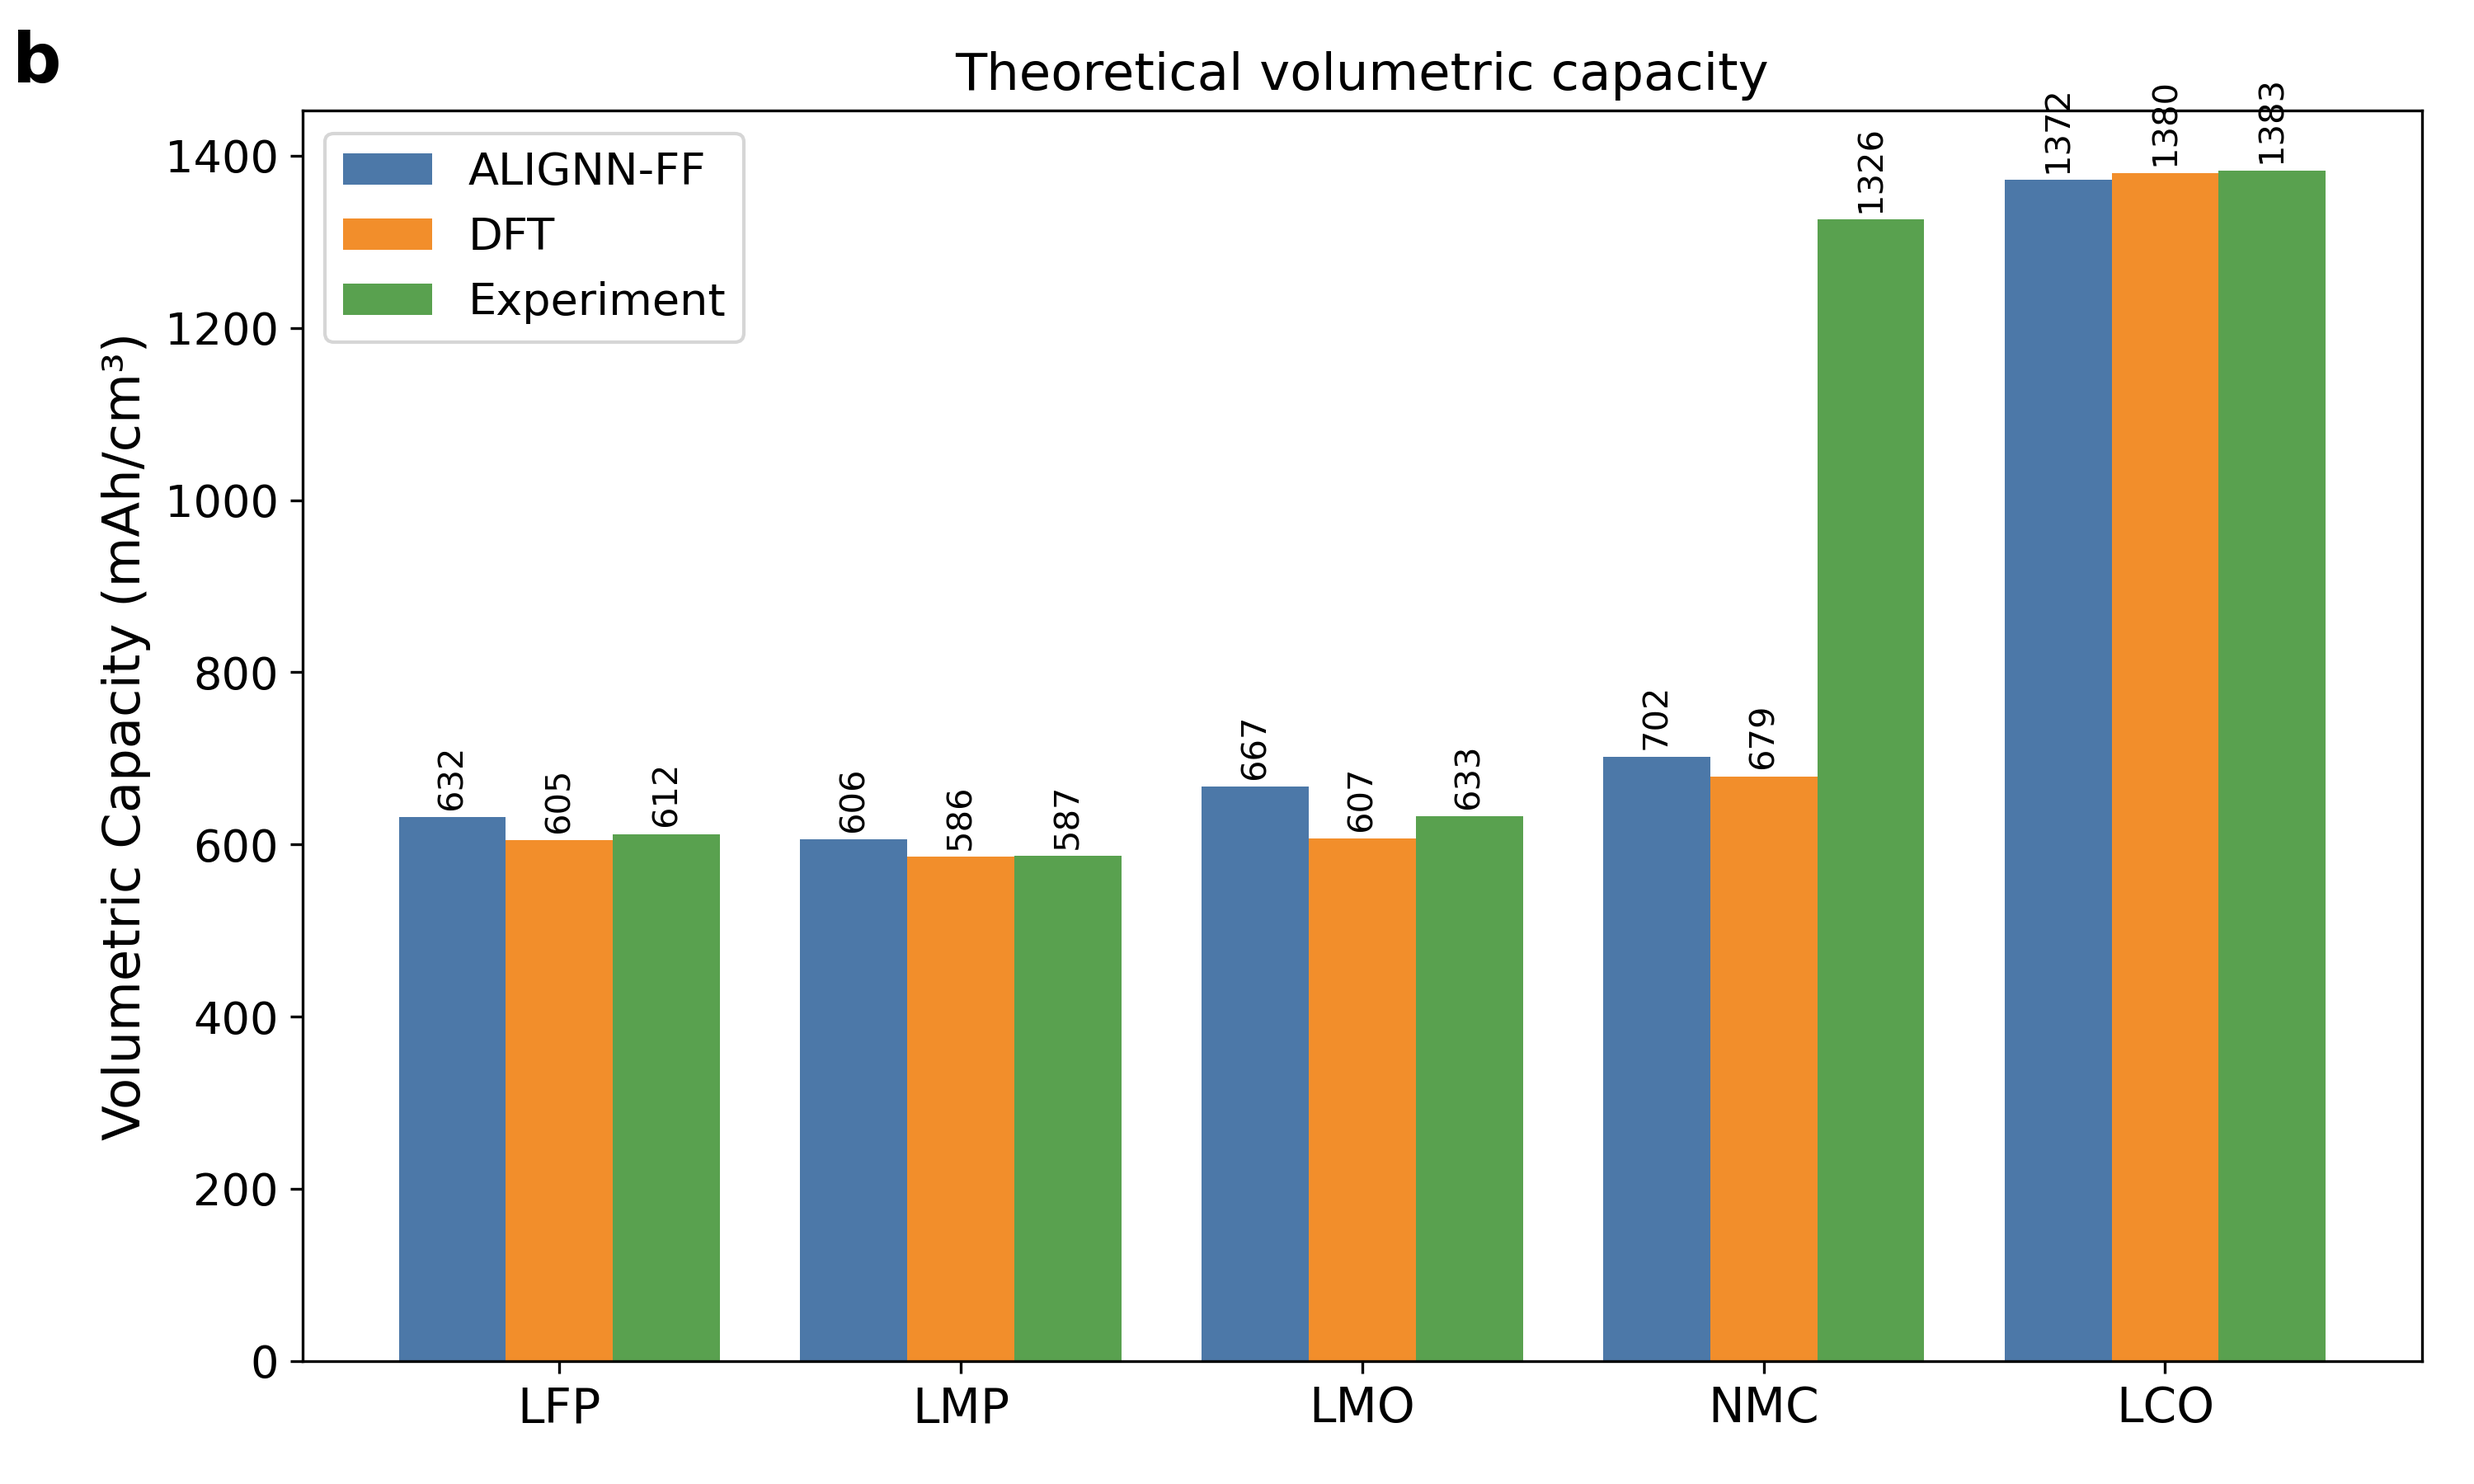
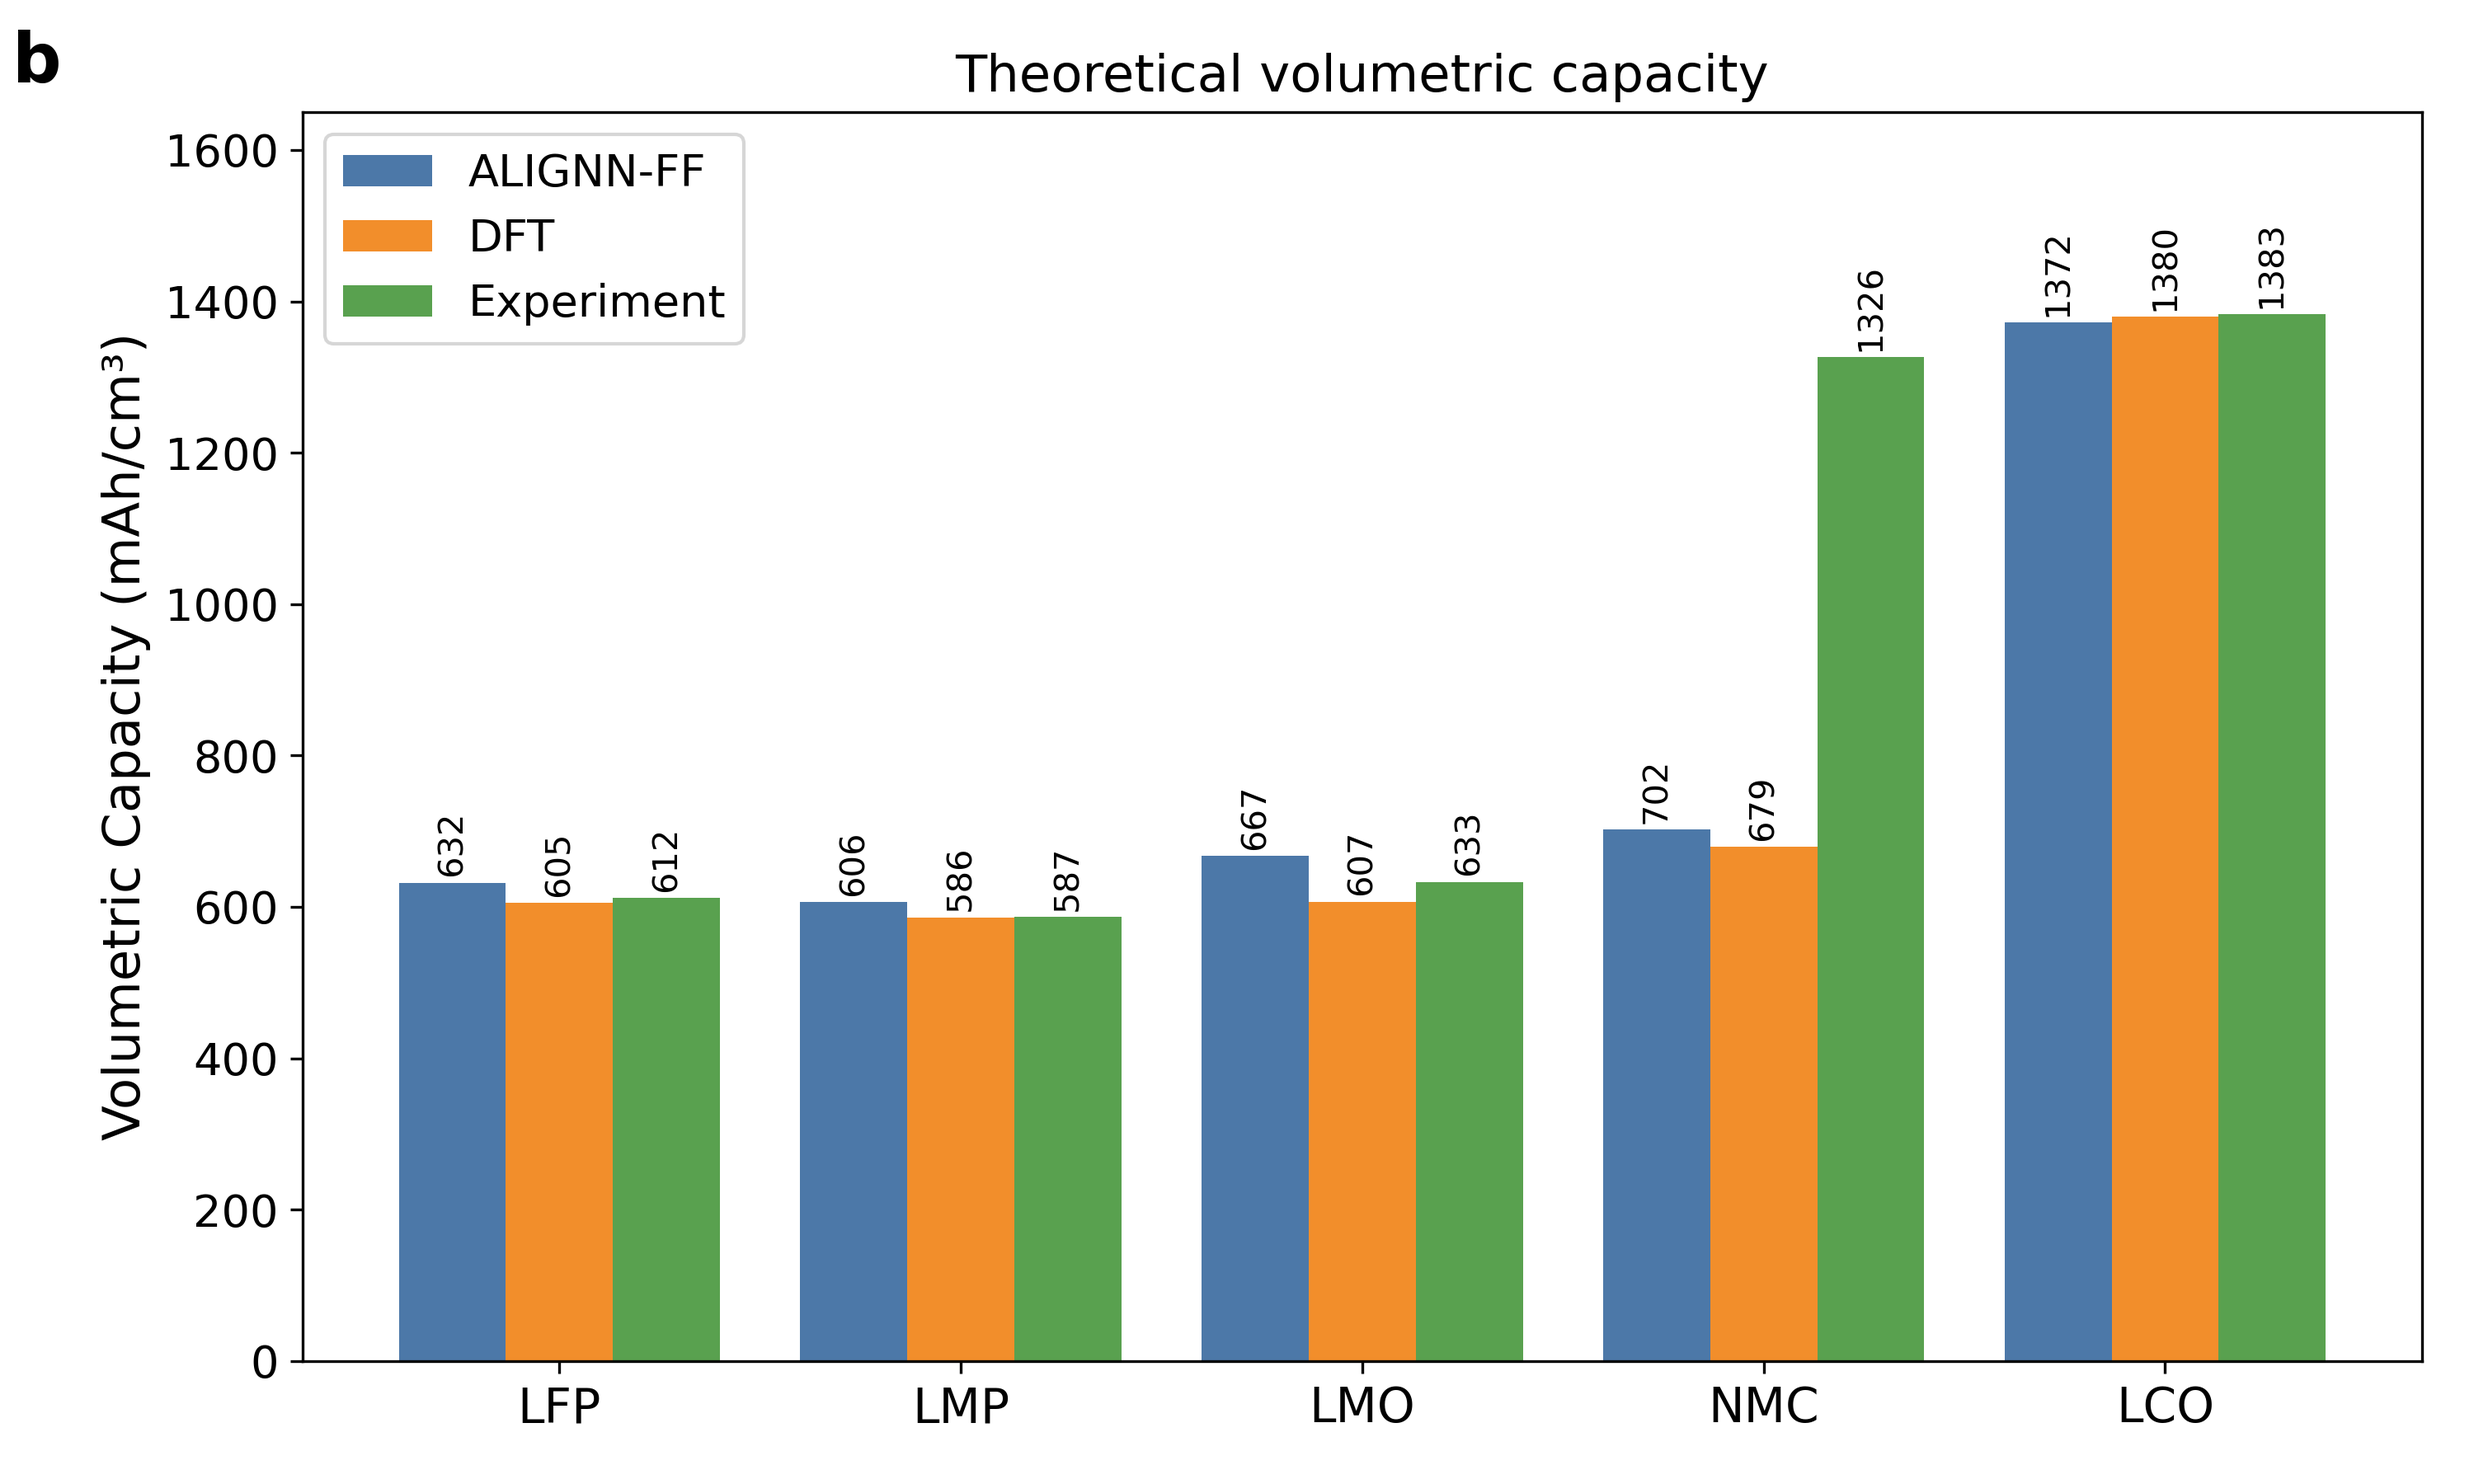
Fix NMC axis label in five-panel figure and capacity plot headroom

diff --git a/batterymat_jae/screening_cathode/analysis/make_five_panel.py b/batterymat_jae/screening_cathode/analysis/make_five_panel.py
@@ -26,7 +26,7 @@ plt.rcParams.update({"font.size": 13, "axes.labelsize": 14, "axes.titlesize": 14
 MATS = [("JVASP-42723", "LFP", "Li$_x$FePO$_4$", 3.43),
         ("JVASP-116897", "LMP", "Li$_x$MnPO$_4$", 4.10),
         ("JVASP-141792", "LMO", "Li$_x$Mn$_2$O$_4$", 4.04),
-        ("JVASP-144791", "NMC", "Li$_x$Mn$_3$Co$_2$Ni$_3$O$_{16}$", 4.37),
+        ("JVASP-144791", "NMC", "Li$_{4x}$Mn$_3$Co$_2$Ni$_3$O$_{16}$", 4.37),
         ("JVASP-2017", "LCO", "Li$_x$CoO$_2$", 3.97)]
 # chain directory when it differs from <jid>-<abbrev>: LCO uses the optB88-vdW rerun
 DIRS = {"LCO": "JVASP-2017-LCO-B88"}

diff --git a/batterymat_jae/screening_cathode/analysis/make_summary_plots.py b/batterymat_jae/screening_cathode/analysis/make_summary_plots.py
@@ -124,6 +124,7 @@ grouped_bar(
     "Theoretical volumetric capacity",
     "Volumetric Capacity (mAh/cm³)",
 )
+ax.set_ylim(0, 1650)  # headroom for the rotated value labels of the LCO bars
 fig.text(0.005, 0.98, "b", fontsize=20, fontweight="bold", va="top")
 fig.tight_layout(rect=(0.02, 0, 1, 1))
 fig.savefig("capacity_summary.png", dpi=300)
